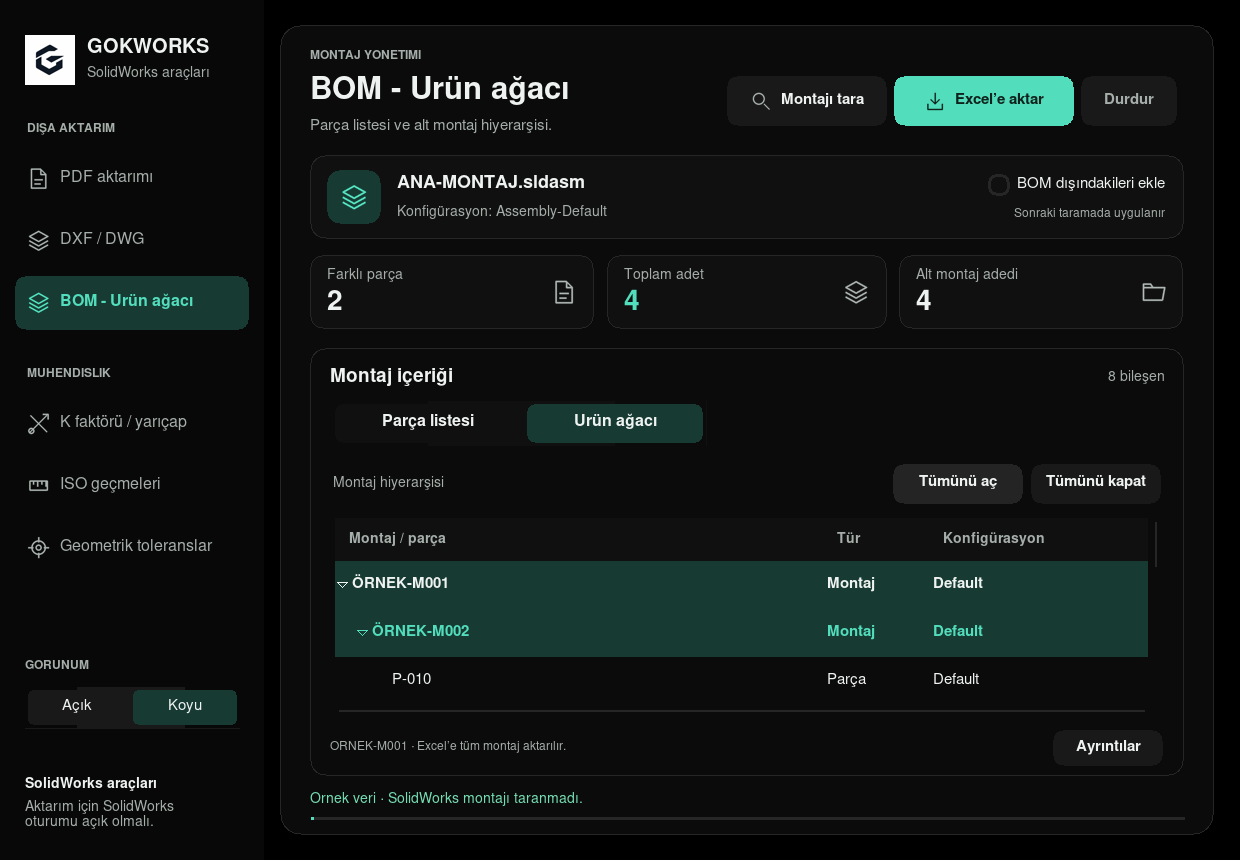
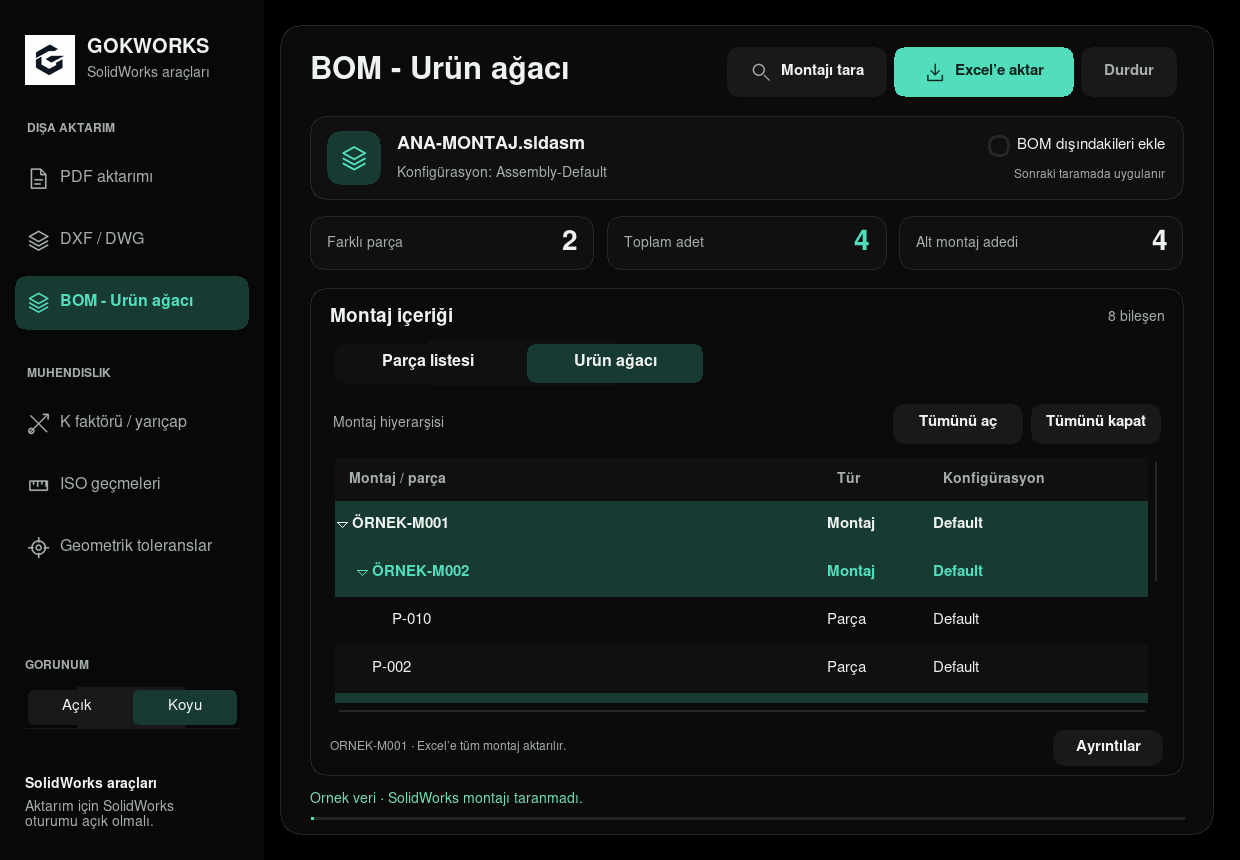
Fix BOM detail selection and scan feedback; improve compact layout

diff --git a/bom/window.py b/bom/window.py
@@ -45,10 +45,12 @@ class BomView:
         header = ctk.CTkFrame(self.workspace, fg_color='transparent')
         header.grid(row=0, column=0, sticky='ew', padx=24, pady=(18, 14))
         header.grid_columnconfigure(0, weight=1)
-        self._label(header, 'MONTAJ YÖNETİMİ', 10, MUTED, True).grid(row=0, column=0, sticky='w')
+        self.bom_widgets['eyebrow'] = self._label(header, 'MONTAJ YÖNETİMİ', 10, MUTED, True)
+        self.bom_widgets['eyebrow'].grid(row=0, column=0, sticky='w')
         self._label(header, BOM_TITLE, 25, bold=True).grid(row=1, column=0, sticky='w', pady=(5, 4))
-        self._label(header, 'Parça listesi ve alt montaj hiyerarşisi.', 12, MUTED,
-                    width=1, wraplength=300, justify='left', anchor='w').grid(row=2, column=0, sticky='ew')
+        self.bom_widgets['subtitle'] = self._label(header, 'Parça listesi ve alt montaj hiyerarşisi.', 12, MUTED,
+                    width=1, wraplength=300, justify='left', anchor='w')
+        self.bom_widgets['subtitle'].grid(row=2, column=0, sticky='ew')
         actions = ctk.CTkFrame(header, fg_color='transparent')
         actions.grid(row=1, column=1, rowspan=2, sticky='e', padx=(12, 0))
         for key, label, command, width, primary, icon in (
@@ -91,11 +93,15 @@ class BomView:
             card = ctk.CTkFrame(metrics, fg_color=INPUT, border_width=1, border_color=BORDER, corner_radius=10)
             card.grid(row=0, column=column, sticky='ew', padx=(0 if column == 0 else 5, 0 if column == 2 else 5))
             card.grid_columnconfigure(0, weight=1)
-            self._label(card, label, 11, MUTED).grid(row=0, column=0, sticky='w', padx=14, pady=(8, 0))
+            caption = self._label(card, label, 11, MUTED)
+            caption.grid(row=0, column=0, sticky='w', padx=14, pady=(8, 0))
             value = self._label(card, '0', 22, ACCENT if key == 'quantity' else TEXT, True)
             value.grid(row=1, column=0, sticky='w', padx=14, pady=(0, 8))
-            ctk.CTkLabel(card, text='', image=self._icon(icon, MUTED, 22)).grid(row=0, column=1, rowspan=2, padx=14)
+            symbol = ctk.CTkLabel(card, text='', image=self._icon(icon, MUTED, 22))
+            symbol.grid(row=0, column=1, rowspan=2, padx=14)
             self.bom_widgets['metric_'+key] = value
+            self.bom_widgets['metric_caption_'+key] = caption
+            self.bom_widgets['metric_icon_'+key] = symbol
 
         content = ctk.CTkFrame(self.workspace, fg_color='transparent')
         content.grid(row=3, column=0, sticky='nsew', padx=24)
@@ -178,6 +184,7 @@ class BomView:
                 table.heading(column, text=title, anchor='center' if column == 'qty' else 'w')
                 table.column(column, width=width, minwidth=60, stretch=column not in ('qty', 'kind'),
                              anchor='center' if column == 'qty' else 'w')
+            table.configure(selectmode='browse')
             table.grid(row=1, column=0, sticky='nsew')
             vertical = ctk.CTkScrollbar(tab, command=table.yview, width=10, fg_color=PANEL, button_color=BORDER)
             vertical.grid(row=1, column=1, sticky='ns')
@@ -268,6 +275,25 @@ class BomView:
         widgets = self.bom_widgets
         scale = self.workspace._get_widget_scaling()
         width = self.workspace.winfo_width()/scale
+        compact = self.workspace.winfo_height()/scale < 740
+        if widgets.get('compact') != compact:
+            widgets['compact'] = compact
+            for key, row in (('eyebrow', 0), ('subtitle', 2)):
+                if compact:
+                    hide_grid(widgets[key])
+                else:
+                    widgets[key].grid(row=row, column=0, sticky='ew' if row == 2 else 'w')
+            for key in ('unique', 'quantity', 'assemblies'):
+                caption, value, icon = (widgets[prefix+key] for prefix in
+                                        ('metric_caption_', 'metric_', 'metric_icon_'))
+                caption.grid(row=0, column=0, sticky='w', padx=14, pady=10 if compact else (8, 0))
+                value.grid(row=0 if compact else 1, column=1 if compact else 0,
+                           sticky='e' if compact else 'w', padx=(0, 14) if compact else 14,
+                           pady=8 if compact else (0, 8))
+                if compact:
+                    hide_grid(icon)
+                else:
+                    icon.grid(row=0, column=1, rowspan=2, padx=14)
         if getattr(self, '_table_style_key', None) != (ctk.get_appearance_mode(), scale):
             self._configure_table_style()
         show_inspector = width >= 950
@@ -354,12 +380,16 @@ class BomView:
             widgets[key].configure(state='disabled')
 
     def _select_bom_row(self, view):
+        # Selection events from a hidden tab must not replace the visible details.
+        active = 'parts' if self.bom_widgets['tabs'].get() == 'Parça listesi' else 'tree'
+        if view != active:
+            return
         result = self.bom_result
         if result is None or 'render' in self.bom_widgets:
             return
         rows = self.bom_widgets[view].selection()
         if not rows:
-            return
+            return self._reset_bom_details()
         if view == 'parts':
             part = result.parts[int(rows[0].removeprefix('part_'))]
             name, path = part.name, part.path
@@ -376,12 +406,15 @@ class BomView:
         self.bom_widgets['details'].configure(state='normal' if not self.busy else 'disabled')
         self.bom_widgets['copy_path'].configure(state='normal' if path and not self.busy else 'disabled')
 
-    def _copy_bom_path(self):
-        selection = self.bom_widgets.get('selection')
-        if selection and selection[2]:
+    def _copy_bom_path(self, path=None):
+        if path is None:
+            selection = self.bom_widgets.get('selection')
+            path = selection[2] if selection else ''
+        if path:
             self.clipboard_clear()
-            self.clipboard_append(selection[2])
-            self.status_label.configure(text='Dosya yolu kopyalandı.', text_color=MUTED)
+            self.clipboard_append(path)
+            if self.mode == 'bom' and not self.busy:
+                self.status_label.configure(text='Dosya yolu kopyalandı.', text_color=MUTED)
 
     def _show_bom_details(self, view=None):
         if self.busy:
@@ -412,7 +445,10 @@ class BomView:
         content.configure(state='disabled')
         actions = ctk.CTkFrame(window, fg_color='transparent')
         actions.grid(row=2, column=0, sticky='ew', padx=24, pady=18)
-        self._button(actions, 'Yolu kopyala', self._copy_bom_path, icon='copy', width=150).pack(side='left')
+        # Keep the dialog tied to its own row even if the table selection changes.
+        window.copy_path_button = self._button(actions, 'Yolu kopyala', lambda: self._copy_bom_path(path),
+                                               icon='copy', width=150, state='normal' if path else 'disabled')
+        window.copy_path_button.pack(side='left')
         self._button(actions, 'Kapat', self._close_detail, width=90).pack(side='right')
         window.bind('<Escape>', lambda event: self._close_detail())
         return 'break'
@@ -582,6 +618,9 @@ class BomView:
             result = self.bom_result
             text, color = (f'Tarama tamamlandı · {result.total_parts} parça adedi · '
                            f'Atlanan bileşen: {result.suppressed} bastırılmış, {result.excluded} BOM dışı.'), GREEN
+        if self.bom_result is None and state in ('error', 'cancelled'):
+            self.bom_widgets['assembly'].configure(text='Tarama tamamlanamadı' if state == 'error' else 'Tarama durduruldu')
+            self.bom_widgets['configuration'].configure(text='Montajı tara düğmesiyle yeniden deneyin.')
         self.status_label.configure(text=text, text_color=color)
         if self.close_pending:
             self._destroy_app()

diff --git a/tests/test_bom_window.py b/tests/test_bom_window.py
@@ -75,7 +75,7 @@ class BomWindowTests(GuiTestCase):
                     self.assert_inside(self.app.bom_widgets[key], self.app)
                 for button in self.app.nav_buttons.values():
                     self.assert_inside(button, self.app.sidebar)
-                self.assertGreater(self.app.bom_widgets['parts'].winfo_height(), 130)
+                self.assertGreater(self.app.bom_widgets['parts'].winfo_height()/scale, 180)
                 self.assertFalse(self.app.bom_widgets['inspector'].winfo_viewable())
                 self.app.bom_widgets['tabs'].set('Ürün ağacı')
                 self.settle()
@@ -92,7 +92,35 @@ class BomWindowTests(GuiTestCase):
         self.assertFalse(self.app.bom_widgets['parts'].get_children())
         self.assertEqual(self.app.bom_widgets['export'].cget('state'), 'disabled')
         self.assertIn('SolidWorks yok', self.app.status_label.cget('text'))
+        self.assertEqual(self.app.bom_widgets['assembly'].cget('text'), 'Tarama tamamlanamadı')
         self.assertEqual(self.app.nav_buttons['pdf'].cget('state'), 'normal')
+
+    def test_detail_dialog_copies_its_row_and_hidden_or_cleared_selection_stays_consistent(self):
+        self.scan()
+        widgets = self.app.bom_widgets
+        widgets['parts'].selection_set('part_0')
+        self.settle()
+        widgets['details'].invoke()
+        dialog = self.app.detail_window
+        widgets['parts'].selection_set('part_1')
+        self.settle()
+        self.assertEqual(widgets['detail_name'].cget('text'), self.result.parts[1].name)
+        dialog.copy_path_button.invoke()
+        self.assertEqual(self.app.clipboard_get(), self.result.parts[0].path)
+        self.app._close_detail()
+        widgets['tabs'].set('Ürün ağacı')
+        assembly = next(node for node in self.result.tree if node.kind == 'Montaj')
+        widgets['tree'].selection_set(assembly.number)
+        self.settle()
+        widgets['parts'].selection_set('part_0')  # A queued event from the hidden tab.
+        self.settle()
+        self.assertEqual(widgets['detail_name'].cget('text'), assembly.name)
+        widgets['tree'].selection_remove(assembly.number)
+        self.settle()
+        self.assertEqual(widgets['details'].cget('state'), 'disabled')
+        self.assertEqual(widgets['copy_path'].cget('state'), 'disabled')
+        self.app._show_bom_details('tree')
+        self.assertIsNone(self.app.detail_window)
 
     def test_metrics_tree_controls_and_selected_component_details(self):
         self.scan()
@@ -151,6 +179,7 @@ class BomWindowTests(GuiTestCase):
         self.assertIsNone(self.app.bom_result)
         self.assertFalse(self.app.bom_widgets['parts'].get_children())
         self.assertEqual(self.app.bom_widgets['export'].cget('state'), 'disabled')
+        self.assertEqual(self.app.bom_widgets['assembly'].cget('text'), 'Tarama durduruldu')
 
     def test_export_cancel_and_failure_preserve_preview_and_existing_file(self):
         self.scan()

diff --git a/docs/reports/bom/README.md b/docs/reports/bom/README.md
@@ -18,6 +18,10 @@ Yeni arayüz montaj/konfigürasyon kartı, üç adet özeti, belirgin sekmeler,
 arama çubuğu, yeşil alt montaj satırları ve tüm dalları açma/kapatma kontrolleri
 içerir. Dosya yolu seçili satır paneline taşındı. Küçük pencerede **Ayrıntılar**
 düğmesi aynı bilgilere erişim sağlar. Açık ve koyu temalar desteklenir.
+Kısa pencerelerde başlık ve adet kartları sıkıştırılarak tabloya daha fazla
+alan ayrılır. Ayrıntı penceresindeki kopyalama düğmesi, arka plandaki seçim
+değişse bile pencerede gösterilen parçanın yolunu kopyalar. Seçim kaldırılınca
+eski ayrıntılar temizlenir; tarama hatası ve iptal üst kartta da belirtilir.
 
 Görseller gerçek Tk penceresinden, sentetik montaj verileriyle alındı.
 Kaynak ve checksum bilgileri `references.json` ve `screenshots.json` içindedir.
@@ -25,10 +29,12 @@ Kaynak ve checksum bilgileri `references.json` ve `screenshots.json` içindedir.
 2026-10-12 arayüz değişikliği için yalnız BOM'a özel kontroller çalıştırıldı;
 genel test paketi yeniden çalıştırılmadı.
 
-- `test_bom_window`: **8 geçti**. Gerçek Tk penceresinde tarama/Excel akışı,
+- `test_bom_window`: **9 geçti**. Gerçek Tk penceresinde tarama/Excel akışı,
   önizleme aramasının Excel'i filtrelememesi, seçim/ayrıntılar/yol kopyalama,
   alt montaj dallarını açma/kapatma, boş arama sonucu, sayılar, sayfa önbelleği,
   temalar, küçük pencere, %125 ölçek, iptal ve hatada önceki dosyanın korunması.
+  Açık ayrıntı penceresinde seçim değişimi ve gizli sekmeden gelen seçim
+  olayları da kontrol edildi.
 - Görselleri yeniden üretmek için: `PYTHONPATH=.:tests python docs/report-tools/capture_bom_gui.py`
   (Tk ekranı gerekir; bulutta `DISPLAY=:99`).
 - `git diff --check` geçti.
